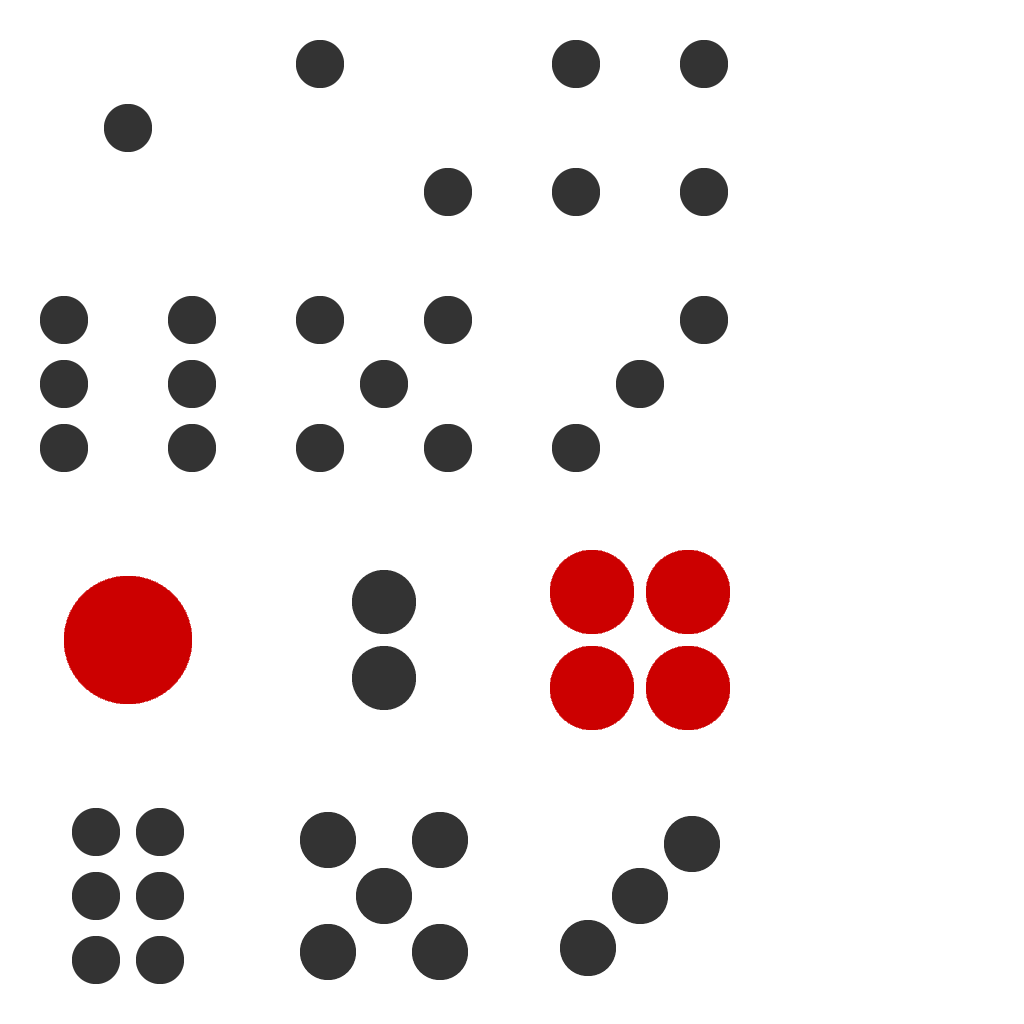
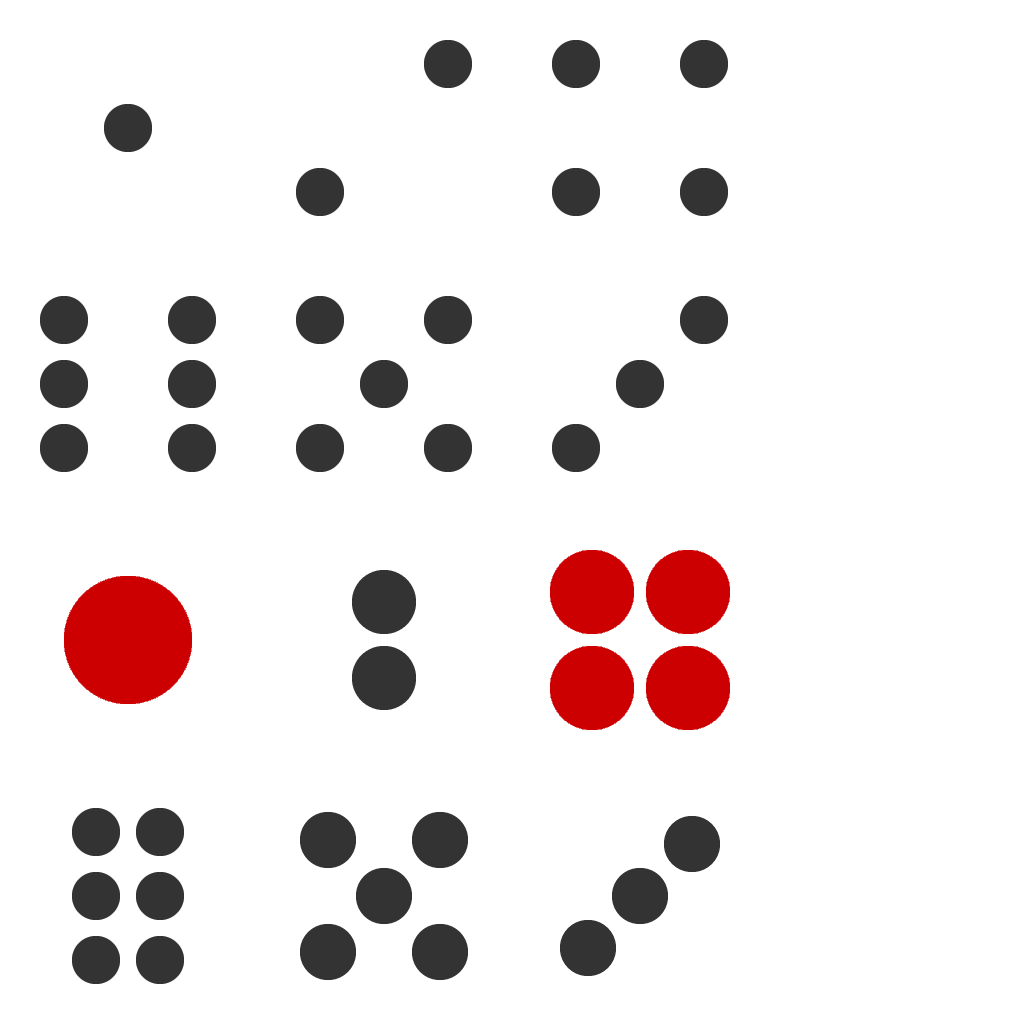
Make dice dot patterns consistent, apply individual spin to all demo dice

diff --git a/src/dice/dice.js b/src/dice/dice.js
@@ -28,18 +28,17 @@ export default class Dice {
 	step(deltaTm, absTm) {
 		this.renderer.render(this.dice);
 
-		const rvel = Quaternion.fromAngularVelocity({
-			x: this.vel.x * deltaTm,
-			y: this.vel.y * deltaTm,
-			z: this.vel.z * deltaTm,
-		});
 		for (const die of this.dice) {
+			const rvel = Quaternion.fromAngularVelocity({
+				x: die.vel.x * deltaTm,
+				y: die.vel.y * deltaTm,
+				z: die.vel.z * deltaTm,
+			});
 			die.rotation = rvel.mult(die.rotation);
 		}
 	}
 
 	start() {
-		const rotation = Quaternion.random(this.randomSource);
 		const materials = ['wood', 'wood-varnished', 'metal', 'plastic', 'plastic-red'];
 		const shapes = ['cube', 'cube-fillet', 'cube-clipped', 'cube-rounded'];
 		const sep = 3.4;
@@ -51,15 +50,15 @@ export default class Dice {
 				this.dice.push({
 					position: {x: (x - midX) * sep, y: -(y - midY) * sep, z: 0},
 					style: {shape: shapes[y], material: materials[x]},
-					rotation,
+					rotation: Quaternion.random(this.randomSource),
+					vel: {
+						x: (this.randomSource.nextFloat() - 0.5) * 2.0,
+						y: (this.randomSource.nextFloat() - 0.5) * 2.0,
+						z: (this.randomSource.nextFloat() - 0.5) * 1.0,
+					},
 				});
 			}
 		}
-		this.vel = {
-			x: this.randomSource.nextFloat() - 0.5,
-			y: this.randomSource.nextFloat() - 0.5,
-			z: 0
-		};
 	}
 
 	stop() {
